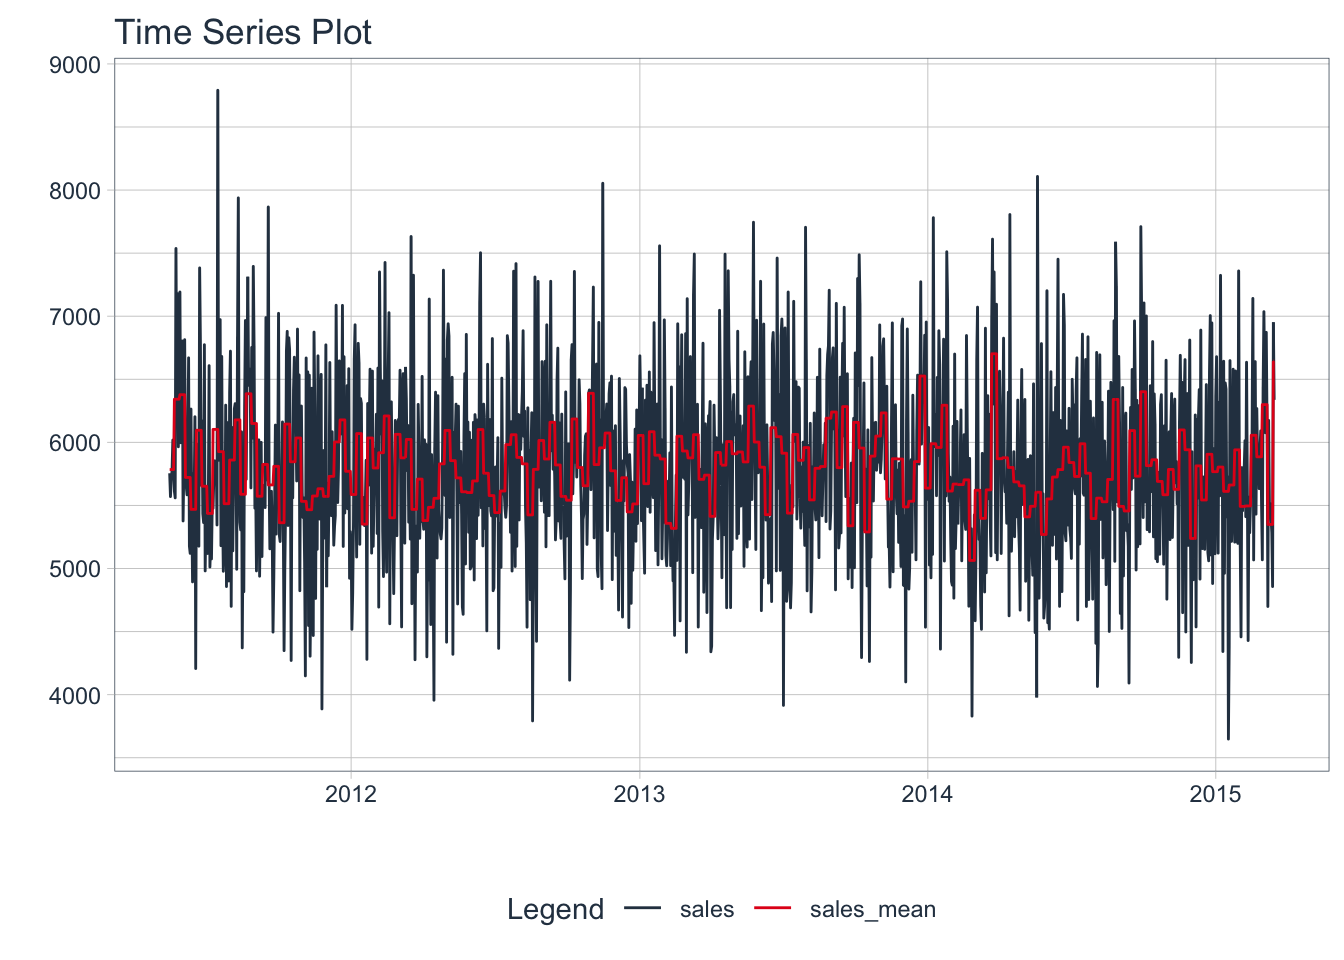
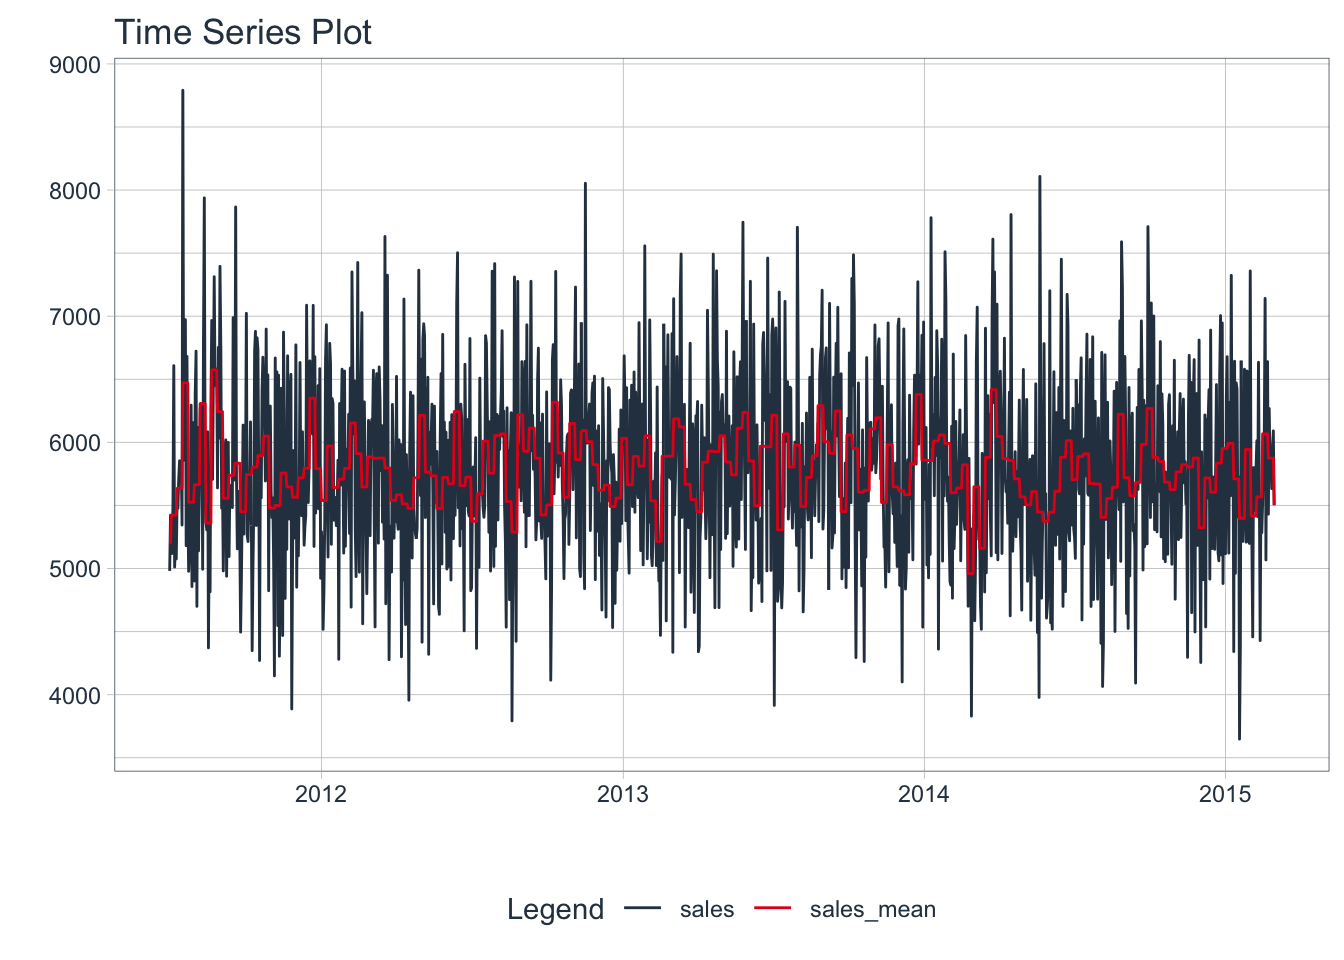
perspective note

diff --git a/content/post/2021-10-28-why-you-must-apply-rfm-matrics-to-your-company-right-away/index.en.html b/content/post/2021-10-28-why-you-must-apply-rfm-matrics-to-your-company-right-away/index.en.html
@@ -390,8 +390,10 @@ P3_D_dup &lt;- cust_dup_tbl %&gt;%
   theme_tq()
 
 gridExtra::grid.arrange(P3_C_dup, P3_B_dup, P3_V_dup, P3_D_dup, ncol = 2)</code></pre>
-<p><img src="{{< blogdown/postref >}}index.en_files/figure-html/unnamed-chunk-11-1.png" width="672" />
-### 3.4 Perspective Notes</p>
+<p><img src="{{< blogdown/postref >}}index.en_files/figure-html/unnamed-chunk-11-1.png" width="672" /></p>
+</div>
+<div id="perspective-notes" class="section level3">
+<h3>3.4 Perspective Notes</h3>
 <ul>
 <li><p>Comparative analysis of potential aspects on “what is the behind the scene” of customers at low and high monetary regions are needed.</p>
 <ul>
@@ -442,7 +444,7 @@ cat(&quot;There is&quot;,paste0(timespan_year),&quot;annual cycle worth of data&
 end_date   &lt;- &quot;2015-03-01&quot;
 
 generator_periodic_tbl &lt;- function(data, period, start_date, end_date, var_x1, var_x2){
-
+  
   var_x1 &lt;- enquo(var_x1)
   var_x2 &lt;- enquo(var_x2)
   start_date &lt;- enquo(start_date)
@@ -452,57 +454,43 @@ generator_periodic_tbl &lt;- function(data, period, start_date, end_date, var_x1
   period_quote  &lt;- quo_name(period_list)
   
   out_tbl &lt;- data %&gt;%
-  mutate(foo = ceiling_date(!!var_x2, unit = !!period_quote)) %&gt;% 
-  filter_by_time(.start_date = !!start_date, 
-                 .end_date = !!end_date,
-                 .date_var = foo)  %&gt;% 
-  dplyr::group_by(foo) %&gt;%
-  dplyr::summarise(frequency = n(),
-                   sales     = sum(!!var_x1)) %&gt;% ungroup()
+    mutate(foo = ceiling_date(!!var_x2, unit = !!period_quote)) %&gt;% 
+    filter_by_time(.start_date = !!start_date, 
+                   .end_date = !!end_date,
+                   .date_var = foo)  %&gt;% 
+    dplyr::group_by(foo) %&gt;%
+    dplyr::summarise(frequency = n(),
+                     sales     = sum(!!var_x1)) %&gt;% ungroup()
   
+  names(out_tbl)[1] &lt;- &quot;date&quot;
+  out_tbl
 }
 
-xx &lt;- trans_df
-generator_periodic_tbl(trans_df, week, start_date, end_date, amount, date)
-
-daily_pur &lt;- trans_df %&gt;%
-  dplyr::group_by(date) %&gt;%
-  dplyr::summarise(frequency = n(),
-                   sales     = sum(amount)) %&gt;% ungroup()
-
-week_pur &lt;- trans_df %&gt;%
-  mutate(week = ceiling_date(date, unit = &quot;week&quot;)) %&gt;% 
-  filter_by_time(.start_date = &quot;2011-07&quot;, 
-                 .end_date = &quot;2015-03-01&quot;,
-                 .date_var = week) %&gt;% 
-  dplyr::group_by(week) %&gt;%
-  dplyr::summarise(frequency = n(),
-                   sales     = sum(amount)) %&gt;% ungroup()
-
-monthly_pur &lt;- trans_df %&gt;%
-  mutate(month = ceiling_date(date, unit = &quot;month&quot;)) %&gt;% 
-  filter_by_time(.start_date = &quot;2011-07&quot;, 
-                 .end_date = &quot;2015-03-01&quot;,
-                 .date_var = month) %&gt;% 
-  dplyr::group_by(month) %&gt;%
-  dplyr::summarise(frequency = n(),
-                   sales     = sum(amount)) %&gt;% ungroup()</code></pre>
-<pre class="r"><code>daily_pur %&gt;% 
-  mutate_by_time(.by = &quot;week&quot;,
-                 sales_mean = mean(sales)) %&gt;% 
-  pivot_longer(contains(&quot;sales&quot;)) %&gt;% 
+daily_pur   &lt;- generator_periodic_tbl(trans_df, day, start_date, end_date, amount, date)
+weekly_pur  &lt;- generator_periodic_tbl(trans_df, week, start_date, end_date, amount, date)
+monthly_pur &lt;- generator_periodic_tbl(trans_df, month, start_date, end_date, amount, date)</code></pre>
+<pre class="r"><code>generator_plot_ts &lt;- function(.data, .period, .var_x1){
+  
+  period_list &lt;- enquo(.period)
+  period_name &lt;- quo_name(period_list)
+  var_x1_list  &lt;- enquo(.var_x1)
+  var_x1_name  &lt;- quo_name(var_x1_list)
+  
+  .data %&gt;% 
+  mutate_by_time(.by = period_name,
+                 sales_mean = mean(!!var_x1_list)) %&gt;% 
+  pivot_longer(contains(!!var_x1_name))  %&gt;%  
   plot_time_series(date, value, name,
                    .smooth = FALSE,
-                   .interactive = FALSE) </code></pre>
+                   .interactive = FALSE)
+}
+
+generator_plot_ts(daily_pur, week, sales)</code></pre>
 <p><img src="{{< blogdown/postref >}}index.en_files/figure-html/unnamed-chunk-14-1.png" width="672" /></p>
-<pre class="r"><code>week_pur %&gt;%
-  mutate_by_time(.by = &quot;month&quot;,
-                 sales_mean = mean(sales)) %&gt;% 
-  pivot_longer(contains(&quot;sales&quot;)) %&gt;% 
-  plot_time_series(week, value, name,
-                   .smooth = FALSE,
-                   .interactive = FALSE) </code></pre>
+<pre class="r"><code>generator_plot_ts(weekly_pur, month, sales)</code></pre>
 <p><img src="{{< blogdown/postref >}}index.en_files/figure-html/unnamed-chunk-14-2.png" width="672" /></p>
+<pre class="r"><code>generator_plot_ts(monthly_pur, &quot;3 month&quot;, sales)</code></pre>
+<p><img src="{{< blogdown/postref >}}index.en_files/figure-html/unnamed-chunk-14-3.png" width="672" /></p>
 <p>Now the monthly revenue time series reveals some useful information</p>
 <ul>
 <li>revenues with its worst performance. shows +3 years overall descending trend.</li>
@@ -520,19 +508,9 @@ mon_sd_tbl &lt;- monthly_pur %&gt;%
          revenue_text  = case_when(outlier == 1 ~ revenue, 
                                    TRUE~ outlier),
          revenue_text  = scales::dollar(revenue_text, scale = 1e-3, suffix = &quot;K&quot;))
-         
-monthly_pur %&gt;% 
-  mutate_by_time(.by = &quot;3 month&quot;,
-                 sales_mean = mean(sales)) %&gt;% 
-  pivot_longer(contains(&quot;sales&quot;)) %&gt;% 
-  plot_time_series(month, value, name,
-                   .smooth      = FALSE,
-                   .legend_show = FALSE,
-                   .title       = &quot;The monthly revenue time series with 3-month moving average&quot;,
-                   .interactive = FALSE)</code></pre>
-<p><img src="{{< blogdown/postref >}}index.en_files/figure-html/unnamed-chunk-15-1.png" width="672" /></p>
-<pre class="r"><code>mon_sd_tbl %&gt;% 
-  ggplot(aes(x = month, y = (revenue_sd))) +
+
+mon_sd_tbl %&gt;% 
+  ggplot(aes(x = date, y = (revenue_sd))) +
   geom_line(size = 0.5, linetype = 1) +
   geom_smooth(method   = &quot;lm&quot;, se = FALSE) +
   geom_label(aes(label = revenue_text,
@@ -547,13 +525,51 @@ monthly_pur %&gt;%
   ) +
   guides(fill = FALSE, color = FALSE, linetype = FALSE, shape = FALSE) +
   theme_tq()</code></pre>
-<p><img src="{{< blogdown/postref >}}index.en_files/figure-html/unnamed-chunk-15-2.png" width="672" /></p>
-<pre class="r"><code>diff(mon_sd_tbl$revenue)</code></pre>
-<pre><code>##  [1]   3570  10534 -19458  13461 -15713  14484  -3418  -7852  10318 -12453
-## [11]  10880  -5947   6184    167  -4239   6817  -2706  -5409   7982 -21370
-## [21]  21132  -7849  12184  -9013   4170   -952  -3201   4691  -4180   3461
-## [31]   3752 -30403  25653  -5655  -4594   3186   6285    -51  -5590   5918
-## [41]  -4448   -845   5827 -19328</code></pre>
+<p><img src="{{< blogdown/postref >}}index.en_files/figure-html/unnamed-chunk-15-1.png" width="672" /></p>
+<pre class="r"><code>monthly_ts &lt;- ts(monthly_pur$sales, start = c(2011, 7), f = 12)
+weekly_ts &lt;- ts(weekly_pur$sales, start = c(2011, 7), f = 365.25/7)
+daily_ts &lt;- ts(daily_pur$sales, start = c(2011, 7), f = 365)</code></pre>
+<pre class="r"><code>t &lt;- 1:length(monthly_ts)
+fit_monthly_lm &lt;- lm(monthly_ts ~ t)
+fit_monthly_lm$coefficients</code></pre>
+<pre><code>## (Intercept)           t 
+##    177787.9       -67.9</code></pre>
+<pre class="r"><code>anova(fit_monthly_lm)</code></pre>
+<pre><code>## Analysis of Variance Table
+## 
+## Response: monthly_ts
+##           Df     Sum Sq  Mean Sq F value Pr(&gt;F)
+## t          1   34961242 34961242    0.76   0.39
+## Residuals 43 1965597815 45711577</code></pre>
+<pre class="r"><code>trend &lt;- fitted(fit_monthly_lm)
+ts.plot(monthly_ts, trend, col=1:2, lty = 1:2, ylab = &quot;Monthly Sales&quot;, xlab = &quot;time&quot;)
+        legend(&quot;topright&quot;, lty=1:2, col=1:2, c(&quot;Raw Monthly Time series&quot;, &quot;Trend component&quot;))</code></pre>
+<p><img src="{{< blogdown/postref >}}index.en_files/figure-html/unnamed-chunk-18-1.png" width="672" /></p>
+<pre class="r"><code>adjtrend = monthly_ts/trend
+y = factor(cycle(adjtrend))
+fit_monthly_1 &lt;-auto.arima(adjtrend,
+                           max.p = 2,
+                           xreg=model.matrix(~0 + y)[, -12],
+                           seasonal = F, max.d = 0, max.q = 0)
+coef(fit_monthly_1)</code></pre>
+<pre><code>## intercept        y1        y2        y3        y4        y5        y6        y7 
+##   0.99107   0.01686   0.03741  -0.07451   0.03326  -0.01538   0.01981  -0.00377 
+##        y8        y9       y10       y11 
+##   0.02527   0.03930  -0.00623   0.03788</code></pre>
+<pre class="r"><code>seasonal = fit_monthly_1$fitted
+pred = trend*seasonal
+irregular = monthly_ts/pred
+ts.plot(trend)</code></pre>
+<p><img src="{{< blogdown/postref >}}index.en_files/figure-html/unnamed-chunk-19-1.png" width="672" /></p>
+<pre class="r"><code>ts.plot(seasonal)</code></pre>
+<p><img src="{{< blogdown/postref >}}index.en_files/figure-html/unnamed-chunk-19-2.png" width="672" /></p>
+<pre class="r"><code>ts.plot(irregular)</code></pre>
+<p><img src="{{< blogdown/postref >}}index.en_files/figure-html/unnamed-chunk-19-3.png" width="672" /></p>
+<pre class="r"><code>ts.plot(monthly_ts, pred, lty = 1:2, ylab = &quot;Monthly Sales&quot;, col = c(&quot;blue&quot;, &quot;red&quot;))</code></pre>
+<p><img src="{{< blogdown/postref >}}index.en_files/figure-html/unnamed-chunk-19-4.png" width="672" /></p>
+<pre class="r"><code># * Create table for TSl components ----
+date &lt;- ymd(&quot;20110701&quot;) + months(1:length(monthly_ts)-1)
+table4 &lt;- data.frame(date, monthly_ts, trend, seasonal, irregular)</code></pre>
 <p>Perspective Notes :
 [1] The historical data shows there are hardly any correlation between date and customer behaviour, likely to be a random walk model
 [2] There is a noticeable correlation between customer id and their purchasing behaviour. I anticipate could be due to number of reasons, perhaps, the primary key was organised by geographical manner, time, or other possible useful information held behind.</p>
@@ -897,22 +913,22 @@ cmpg_vis_df %&gt;% plot_time_series(week,
                                  revenue_Y_cmpg,
                                  .smooth = FALSE,
                                  .interactive = FALSE) </code></pre>
-<p><img src="{{< blogdown/postref >}}index.en_files/figure-html/unnamed-chunk-20-1.png" width="672" /></p>
+<p><img src="{{< blogdown/postref >}}index.en_files/figure-html/unnamed-chunk-25-1.png" width="672" /></p>
 <pre class="r"><code>cmpg_vis_df %&gt;% plot_time_series(week, 
                                  revenue_N_cmpg,
                                  .smooth = FALSE,
                                  .interactive = FALSE) </code></pre>
-<p><img src="{{< blogdown/postref >}}index.en_files/figure-html/unnamed-chunk-20-2.png" width="672" /></p>
+<p><img src="{{< blogdown/postref >}}index.en_files/figure-html/unnamed-chunk-25-2.png" width="672" /></p>
 <pre class="r"><code>cmpg_vis_df %&gt;% plot_time_series(week, 
                                  no_pur_Y_cmpg,
                                  .smooth = FALSE,
                                  .interactive = FALSE) </code></pre>
-<p><img src="{{< blogdown/postref >}}index.en_files/figure-html/unnamed-chunk-20-3.png" width="672" /></p>
+<p><img src="{{< blogdown/postref >}}index.en_files/figure-html/unnamed-chunk-25-3.png" width="672" /></p>
 <pre class="r"><code>cmpg_vis_df %&gt;% plot_time_series(week, 
                                  no_pur_N_cmpg,
                                  .smooth = FALSE,
                                  .interactive = FALSE) </code></pre>
-<p><img src="{{< blogdown/postref >}}index.en_files/figure-html/unnamed-chunk-20-4.png" width="672" /></p>
+<p><img src="{{< blogdown/postref >}}index.en_files/figure-html/unnamed-chunk-25-4.png" width="672" /></p>
 <p>the RFM scoring possess less weight on customer next purchasing prediction value. By means, although RFM metrics yet remain its purpose of segmenting superior to sleeping customer but it would be a good predictor index for estimating who would be most likely to purchase in given time period. As the stationary means it occurs by chance.</p>
 <hr />
 </div>

diff --git a/content/post/2021-11-03-back-to-the-basic-what-is-regression-function/index.en.html b/content/post/2021-11-03-back-to-the-basic-what-is-regression-function/index.en.html
@@ -28,12 +28,15 @@ draft: TRUE
 
 <div id="general-notation-for-regression-model" class="section level2">
 <h2>General notation for Regression model</h2>
-<p>The general notation:</p>
+<p>Its general notation:</p>
 <p>f(x) = E(Y|X =x)</p>
 <p>Depending on the complexity of the function, we may be able to understand how each components Xj affects Y, and therefore the interpretable level of parameters with respect to independent X variables influencing on Y.</p>
 <p>Thus models, even within Regression, have many uses and those amongst them. Some of its models would be easier to interpret than others but stronger the assumptions and its limitations to follow. I mean there is really no “free-lunch” right?</p>
 <p>Before I begin explore the assumptions and algorithms of different regression models. Lets try to understand the general scheme of ideal function - explained by …</p>
-<p>So what is the ideal</p>
+<ul>
+<li>Conditional average
+So is there an ideal f(X)?</li>
+</ul>
 </div>
 <div id="the-ordinary-mutiple-linear-regression-function-and-its-loss-function" class="section level2">
 <h2>The ordinary mutiple linear regression function and its loss function</h2>
